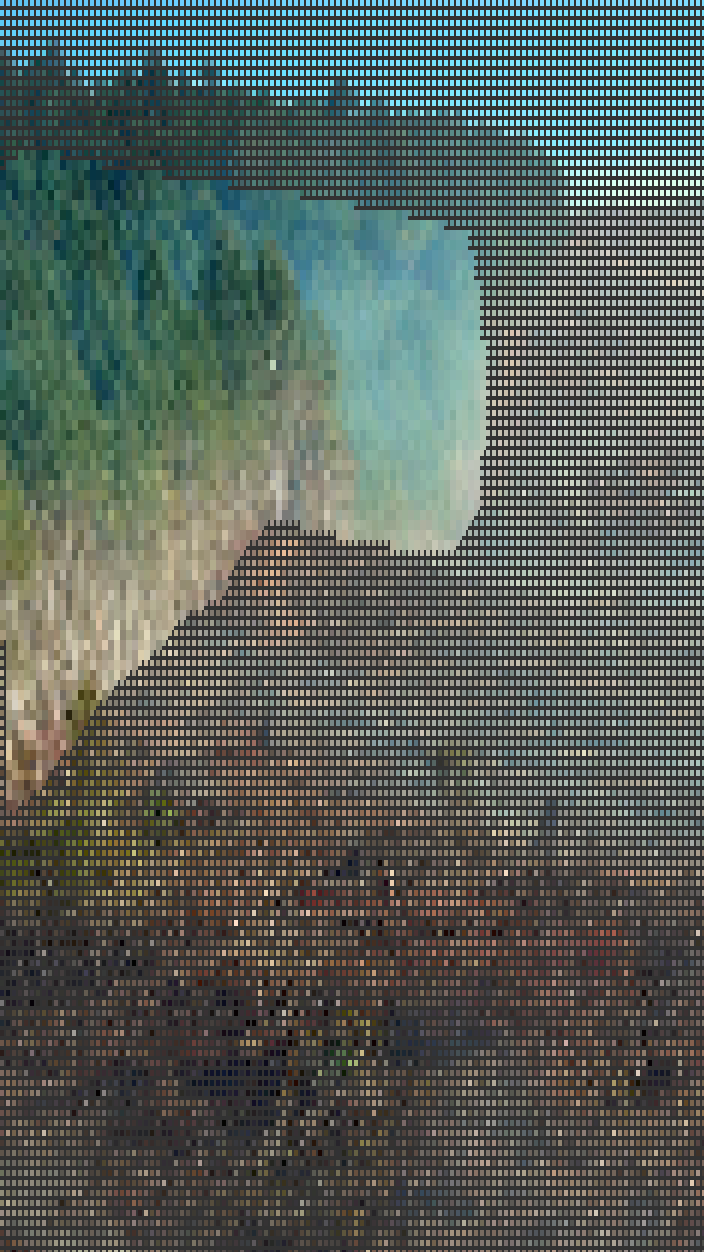
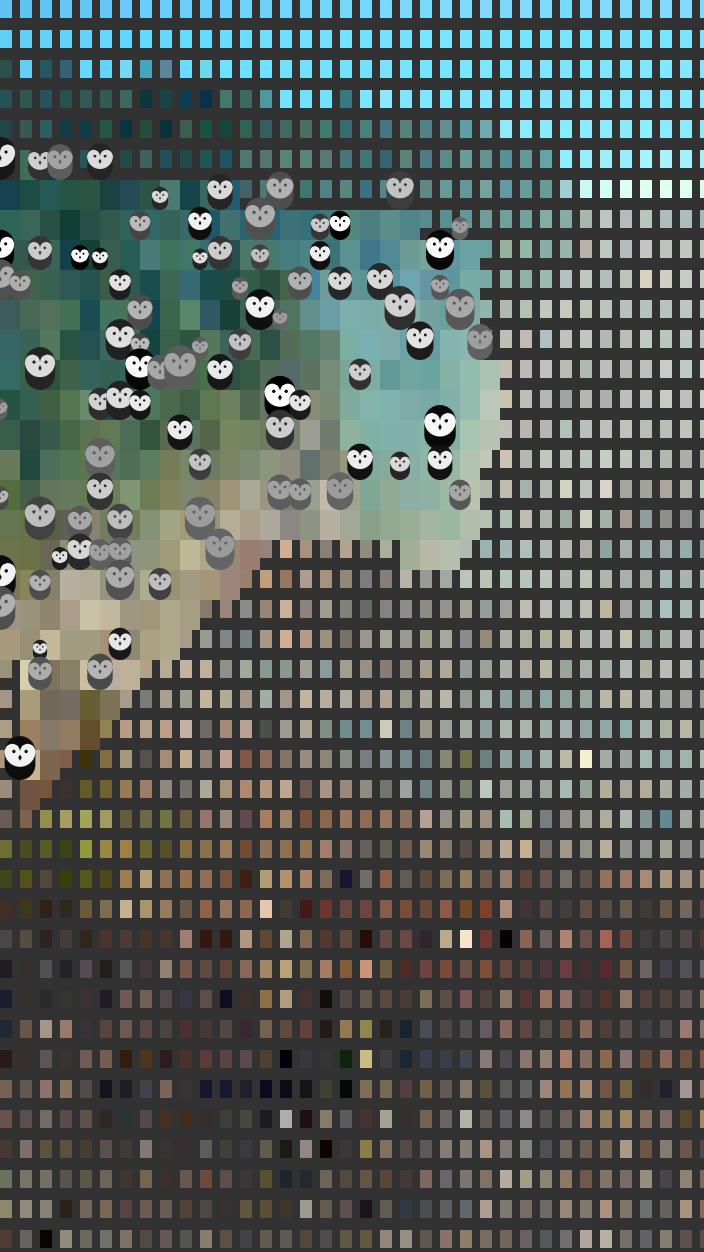
Third grid example: owls on tiles

diff --git a/sketch.js b/sketch.js
@@ -22,10 +22,30 @@ function setup () {
   maskImg.loadPixels();
 }
 
-const tile_width = 4;
-const tile_height = 6;
-const tile_step_x = 6;
-const tile_step_y = 10;
+// draw owl at x,y with darkness g and scaling s
+function owl(x, y, g, s) {
+  push();
+  translate(x, y);
+  scale(s);  // Set the createCanvas
+  stroke(g); // Set the gray value
+  strokeWeight(70);
+  line(0, -35, 0, -65); // Body
+  noStroke();
+  fill(255-g);
+  ellipse(-17.5, -65, 35, 35); // Left eye dome
+  ellipse(17.5, -65, 35, 35);  // Right eye dome
+  arc(0, -65, 70, 70, 0, PI);  // Chin
+  fill(g);
+  ellipse(-14, -65, 8, 8);  // Left eye
+  ellipse(14, -65, 8, 8);   // Right eye
+  quad(0, -58, 4, -51, 0, -44, -4, -51); // Beak
+  pop();
+}
+
+const tile_width = 12;
+const tile_height = 18;
+const tile_step_x = 20;
+const tile_step_y = 30;
 
 function draw () {
   background(50);
@@ -38,6 +58,12 @@ function draw () {
       fill(pix);
       if(mask[0] > 128) {
         rect(x, y, tile_step_x, tile_step_y);
+        var die = int(random(0, 4));
+        if (die == 0) {
+          var gray = int(random(0, 102));
+          var scalar = random(0.2, 0.45);
+          owl(x, y, gray, scalar);          
+        }
       }
       else {
         rect(x, y, tile_width, tile_height);
@@ -45,33 +71,12 @@ function draw () {
     }
   }
 
-/*
-  for(let i=0;i<1000;i++) {
-    let x = floor(random(sourceImg.width));
-    let y = floor(random(sourceImg.height));
-    let pix = sourceImg.get(x, y);
-    let mask = maskImg.get(x, y);
-    fill(pix);
-    stroke(pix);
-    if(mask[0] > 128) {
-      let pointSize = 10;
-      ellipse(x, y, pointSize, pointSize);
-    }
-    else {
-      let pointSize = 2;
-      let x2 = floor(random(sourceImg.width));
-      let y2 = floor(random(sourceImg.height));
-      // rect(x, y, pointSize, pointSize);
-      line(x, y, x2, y2);    
-    }
-  }
-*/
   renderCounter = renderCounter + 1;
   if(renderCounter > 10) {
     console.log("Done!")
     noLoop();
     // uncomment this to save the result
-    // saveArtworkImage(outputFile);
+    saveArtworkImage(outputFile);
   }
 }
 

diff --git a/README.md b/README.md
@@ -1,3 +1,3 @@
 ## Creative Coding 2: Custom Pixel
 
-Second grid example: adjust tile spacing and add mask logic.
+Third grid example: draw owls on some of the tiles in the mask.
